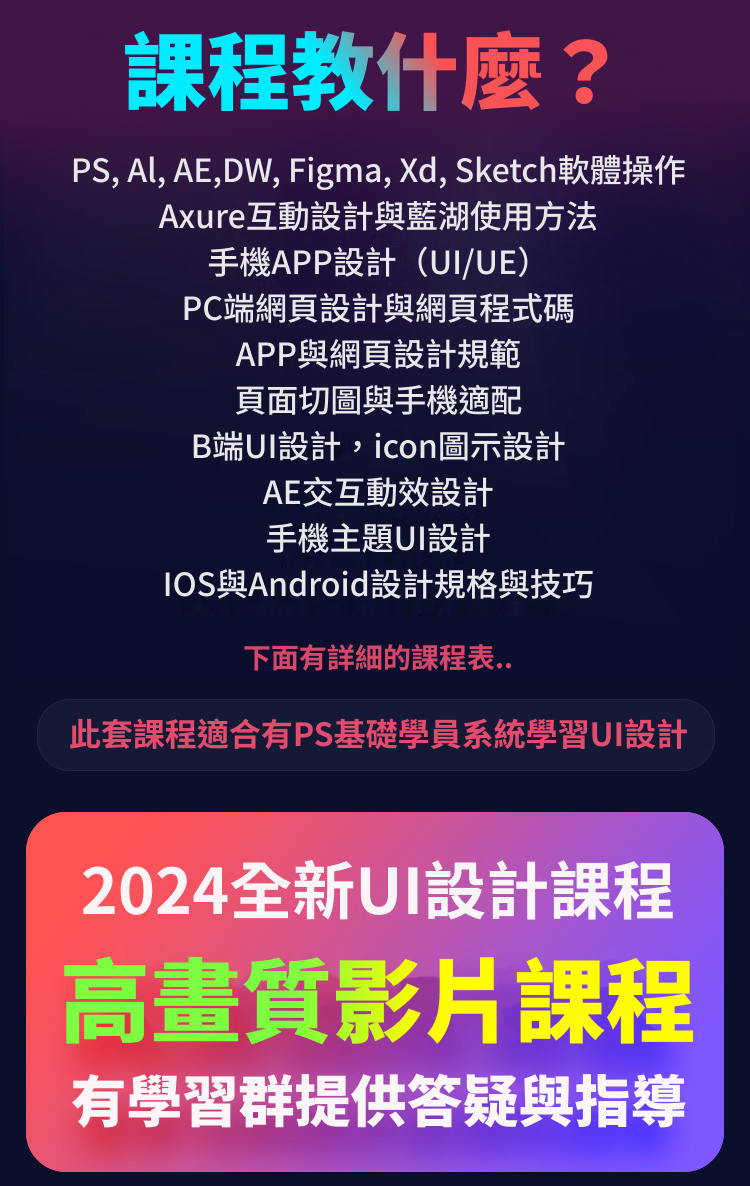
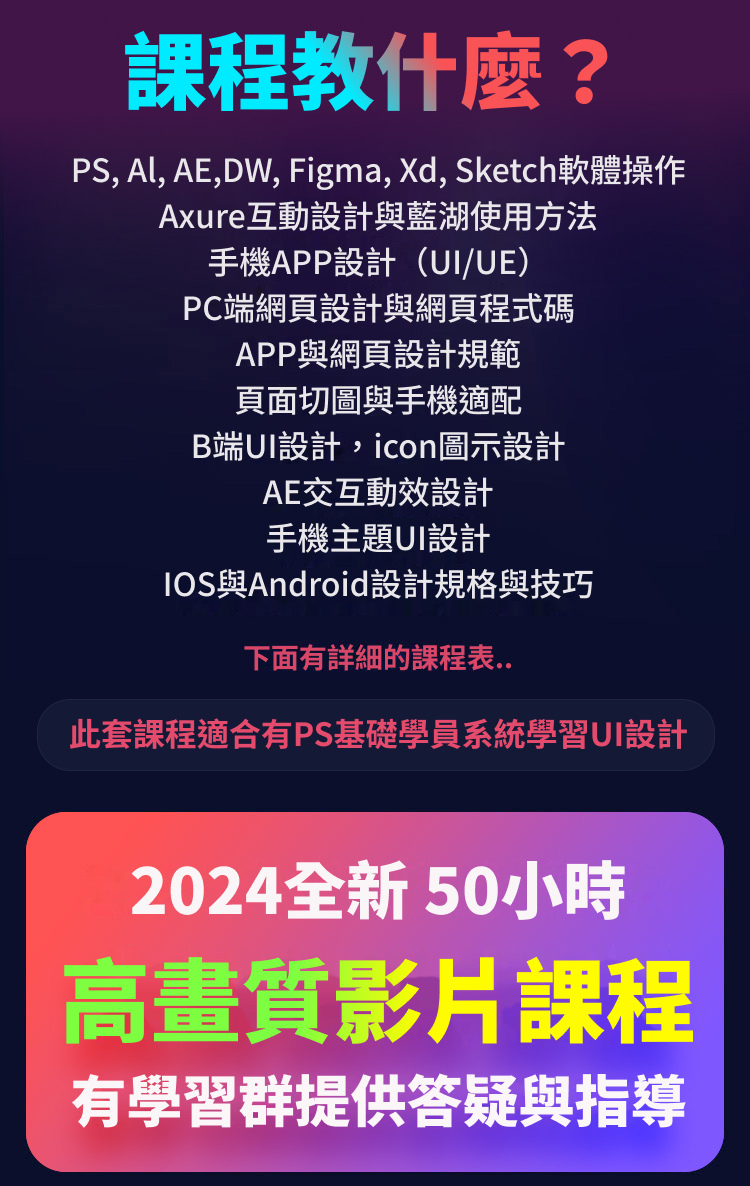
Add files via upload

Changed region(s): [[0.1227, 0.7175, 0.92, 0.7799]]

diff --git a/figmacourse/index.html b/figmacourse/index.html
@@ -318,7 +318,7 @@
     <div class="progress-bar" id="progress-bar"></div>
 
     <div id="startimage" class="container">
-        <img src="1.jpg" alt="2024全新UI課程">
+        <img src="1.jpg" alt="UI設計實戰教學">
         <img src="2.jpg" alt="UI設計實戰教學">
         <img id="teacher-intro" class="scroll-target" src="3.jpg" alt="講師介紹">
         <img src="4.jpg" alt="課程包什麼">
@@ -342,7 +342,7 @@
         
         <div class="form-container">
             <form id="registration-form" class="custom-form scroll-target" action="https://docs.google.com/forms/d/1v8in81GQTb3mKyRNpfAbgKyXi0jWH1MSkZmt6caN9-A/formResponse" method="POST" onsubmit="return validateFormAndTrackLead()">
-                <label for="entry.1708014737">您想聽什麼領域的內容？</label>
+                <label for="entry.1708014737">您還想免費試聽什麼領域的內容？</label>
                 <select name="entry.1708014737" id="entry.1708014737" required>
                     <option value="【插畫】：廣告海報、貼圖等">【插畫】：廣告海報、貼圖等</option>
                     <option value="【平面設計】：CIS、排版、色彩等">【平面設計】：CIS、排版、色彩等</option>
@@ -363,7 +363,7 @@
                 <label for="entry.1468791071">Email</label>
                 <input type="email" id="entry.1468791071" name="entry.1468791071" required>
                 
-                <label for="entry.953642433">手機<span class="small-text">(限台灣，聯繫不到視同放棄)</span></label>
+                <label for="entry.953642433">手機<span class="small-text">(限台灣，專人提供課程觀看連結)</span></label>
                 <input type="text" id="entry.953642433" name="entry.953642433" class="phone-input" maxlength="10" required value="09">
                 <div id="phone-error" class="error-message">請輸入正確的台灣手機號碼格式。</div>
                 
@@ -375,34 +375,36 @@
                     <option value="假日晚上">假日晚上</option>
                 </select>
                 
-                <input type="submit" value="申請報名(剩3位)" class="submit-button" onclick="trackLeadEvent()">
+                <input type="submit" value="填完觀看(剩3份)" class="submit-button" onclick="trackLeadEvent()">
 
-
+                
             </form>
-            
+                
             <!-- 嵌入倒計時 -->
             <div class="countdown-container">
                 <p style="margin-bottom: 0px;">距離<span id="current-date"></span>報名截止只剩:</p>
                 <iframe style="background-color: #fff; color: #000;" src="countdown.html"></iframe>
             </div>
+
+            <p style="text-align: center;">個資僅供課程領取用途，不會外流，請放心填寫</p>
         </div>
     </div>
 
     <div id="fixedButtonContainer" class="fixed-button-container">
-        <button class="unique-submit-button" onclick="scrollToForm()">立即報名</button>
+        <button class="unique-submit-button" onclick="scrollToForm()">立即免費試看(1小時)</button>
 
            <!-- 淡入淡出姓名 -->
     <div class="fade-container">
-        <div class="fade-item">王O明 29分鐘前 已申請報名</div>
-        <div class="fade-item">李O華 26分鐘前 已申請報名</div>
-        <div class="fade-item">陳O玲 22分鐘前 已申請報名</div>
-        <div class="fade-item">林O杰 21分鐘前 已申請報名</div>
-        <div class="fade-item">張O婷 19分鐘前 已申請報名</div>
-        <div class="fade-item">黃O翔 17分鐘前 已申請報名</div>
-        <div class="fade-item">吳O君 15分鐘前 已申請報名</div>
-        <div class="fade-item">劉O瑩 14分鐘前 已申請報名</div>
-        <div class="fade-item">蔡O豪 12分鐘前 已申請報名</div>
-        <div class="fade-item">許O文 11分鐘前 已申請報名</div>
+        <div class="fade-item">賀 王O明同學 錄取薪水85K</div>
+        <div class="fade-item">賀 李O華同學 錄取薪水70K</div>
+        <div class="fade-item">賀 陳O玲同學 錄取薪水65K</div>
+        <div class="fade-item">賀 林O杰同學 錄取薪水110K</div>
+        <div class="fade-item">賀 張O婷同學 錄取薪水130K</div>
+        <div class="fade-item">賀 黃O翔同學 錄取薪水70K</div>
+        <div class="fade-item">賀 吳O君同學 錄取薪水59K</div>
+        <div class="fade-item">賀 劉O瑩同學 錄取薪水100K</div>
+        <div class="fade-item">賀 蔡O豪同學 錄取薪水90K</div>
+        <div class="fade-item">賀 許O文同學 錄取薪水120K</div>
     </div>
 
     </div>
